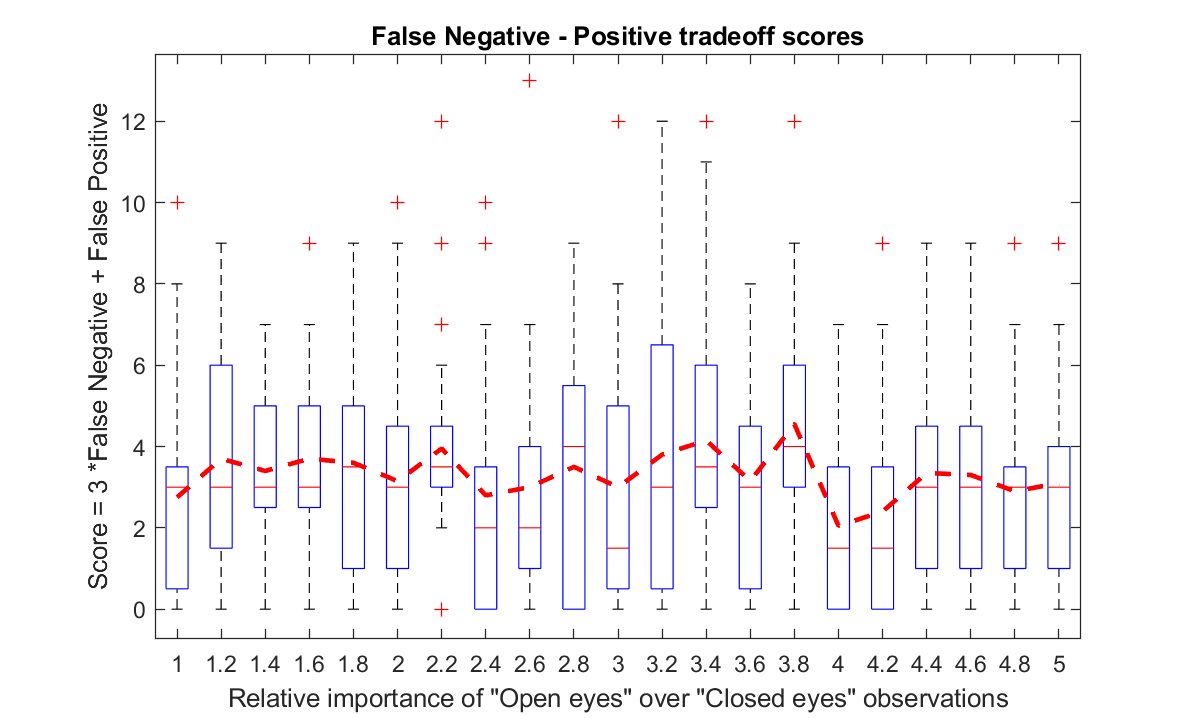
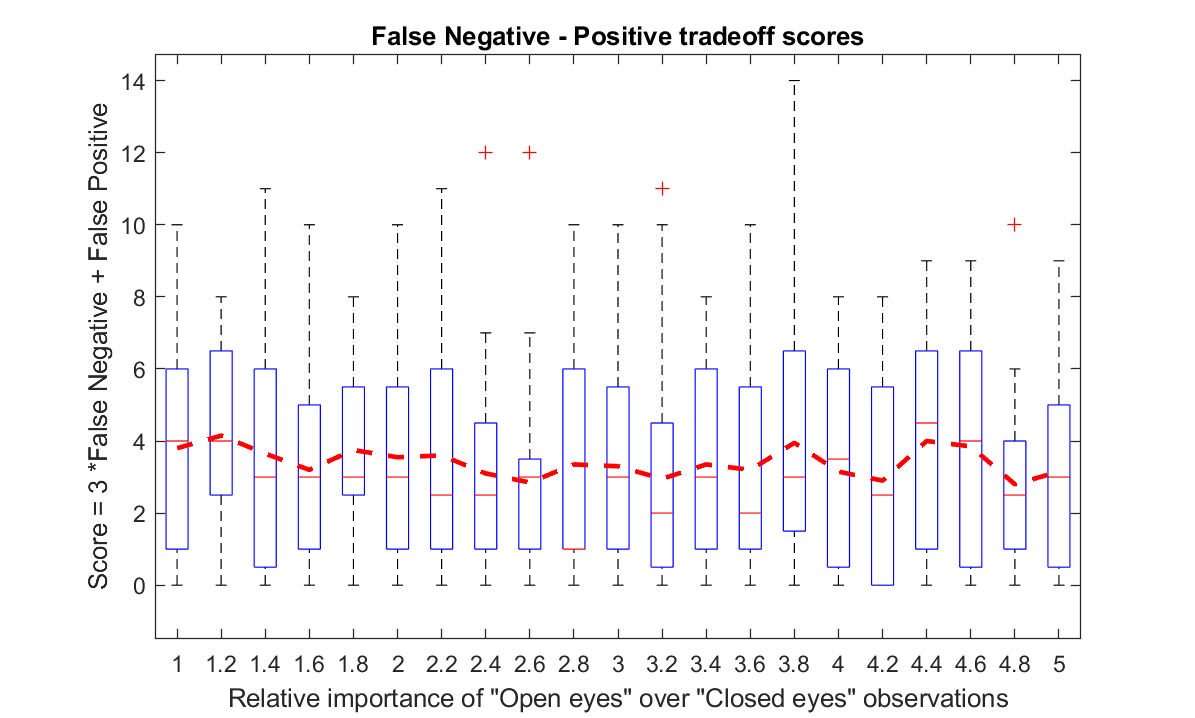
before onewave bday portfolio finalised
corrected False Positive False negative wording errors
uploaded weighted RNN training results. 
final draft check of eeg_costtradeoff.md

diff --git a/post/eeg_costtradeoff/index.html b/post/eeg_costtradeoff/index.html
@@ -74,7 +74,7 @@
 </div></div>
 		</header>
 		<figure class="post__thumbnail">
-			<img src="../../../../images/eegvis_landscapeB.png" alt="Autonomous vechicle microsleep detector Vol3: Misclassification tradeoff">
+			<img src="../../images/eegvis_landscapeB.png" alt="Autonomous vechicle microsleep detector Vol3: Misclassification tradeoff">
 		</figure><div class="content post__content clearfix">
 			<p><em>It&rsquo;s much more costly to the end user for the autonomous vehcile to not take over the steering when eyes are closed, than to take over steering when eyes are open.</em></p>
 <hr>
@@ -98,15 +98,15 @@
 </li>
 </ul>
 <h2 id="motivation--approach">Motivation &amp; approach</h2>
-<p>Understanding the context of the business application of a machine learning solution is critical. The business problem was for a driver microsleep detector, though by thinking about the context of the real world application, we decided it was much worse to classify a &ldquo;Closed&rdquo; state as an &ldquo;Open&rdquo;, than it was to classify eyes as closed, when really they were open. It&rsquo;s much more costly to the end user for the autonomous vehcile to not take over the steering when eyes are closed, than to take over steering when eyes are open. Open eyes will also be called &ldquo;Positive&rdquo;, and closed eyes will be called Negative. So we want to avoid a false positive (F.P.) 3 times as much as we want to avoid a false negative (F.N.)</p>
+<p>Understanding the context of the business application of a machine learning solution is critical. The business problem was for a driver microsleep detector, though by thinking about the context of the real world application, we decided it was much worse to classify a &ldquo;Closed&rdquo; state as an &ldquo;Open&rdquo;, than it was to classify eyes as closed, when really they were open. It&rsquo;s much more costly to the end user for the autonomous vehcile to not take over the steering when eyes are closed, than to take over steering when eyes are open. Open eyes will also be called &ldquo;Positive&rdquo;, and closed eyes will be called Negative. So we want to avoid a false negative (F.N.) 3 times as much as we want to avoid a false positive (F.P.)</p>
 <p>In the modelling done so far, the loss curves for (mis)classifying &ldquo;eyes open&rdquo; is the same as loss curve for classifying &ldquo;eyes closed&rdquo;. The False Negative to False Positive ratios for all 4 models so far;</p>
 <ol>
-<li>Probit regression: 7:6 (FPs : FNs)</li>
-<li>Lasso Probit regression: 10:10</li>
-<li>Partial Least Squares regression: 8:13</li>
-<li>Reccurent neural network (LSTM): 16:88</li>
+<li>Probit regression: 6:5 (FPs : FNs)</li>
+<li>Lasso Probit regression: 6:8</li>
+<li>Partial Least Squares regression: 9:11</li>
+<li>Reccurent neural network (LSTM): 17:20</li>
 </ol>
-<p>The goal is to get this ratio to be 3:1</p>
+<p>The goal is to get this ratio to be 1:3</p>
 <h2 id="assymetric-loss-function-trading-incorrect-open-state-detection-for-incorrect-closed-states">Assymetric Loss function: trading incorrect Open state detection for incorrect Closed states.</h2>
 <blockquote>
 <p><em><strong>Assymetric loss function</strong></em>: &ldquo;It&rsquo;s much more important to not mistake eyes closed for eyes open, than the other way around&rdquo;</p>
@@ -132,7 +132,7 @@ hold on;
 p1 = plot( carcrash_risk<span style="color:#f92672">&#39;</span>,<span style="color:#e6db74">&#39;r&#39;</span>,<span style="color:#e6db74">&#39;LineWidth&#39;</span>,<span style="color:#ae81ff">2</span>,<span style="color:#e6db74">&#39;HandleVisibility&#39;</span>,<span style="color:#e6db74">&#39;off&#39;</span>); p2 = plot( autopilot_takeover_risk<span style="color:#f92672">&#39;</span>,<span style="color:#e6db74">&#39;b&#39;</span>,<span style="color:#e6db74">&#39;LineWidth&#39;</span>,<span style="color:#ae81ff">2</span>,<span style="color:#e6db74">&#39;HandleVisibility&#39;</span>,<span style="color:#e6db74">&#39;off&#39;</span>);
 </code></pre></div><p><img src="../../images/eegcosttradeoff/1.png" alt="log loss regular"></p>
 <p>This loss shows it is equally bad to predict that eyes are closed when they are open, as it does to predict eyes open, when they are closed.</p>
-<p>Knowing the model will make some mistakes, we&rsquo;d prefer more false &ldquo;Opens&rdquo; if we can get them, even at the cost of more of false &ldquo;Closed&rdquo;. Penalising the loss curve more heavily when the true class is &ldquo;Closed&rdquo; could help to achieve this. It would be an asymmetric loss function.</p>
+<p>Knowing the model will make some mistakes, we&rsquo;d prefer more false &ldquo;Opens&rdquo; (false negatives) if we can get them, even at the cost of more of false &ldquo;Closed&rdquo;. Penalising the loss curve more heavily when the true class is &ldquo;Closed&rdquo; could help to achieve this. It would be an asymmetric loss function.</p>
 <div class="highlight"><pre style="color:#f8f8f2;background-color:#272822;-moz-tab-size:4;-o-tab-size:4;tab-size:4"><code class="language-matlab" data-lang="matlab"><span style="color:#75715e">% loss for miscalssifying Closed eyes</span>
 carcrash_risk_weighted = (Loss_closeeye<span style="color:#f92672">.^</span>(<span style="color:#ae81ff">2</span>))<span style="color:#f92672">.*</span>[ones(<span style="color:#ae81ff">1</span>,<span style="color:#ae81ff">50</span>),NaN(<span style="color:#ae81ff">1</span>,<span style="color:#ae81ff">50</span>)];
 plot( Loss_closeeye<span style="color:#f92672">.^</span>(<span style="color:#ae81ff">2</span>)<span style="color:#f92672">&#39;</span>,<span style="color:#e6db74">&#39;r.-&#39;</span>,<span style="color:#e6db74">&#39;DisplayName&#39;</span>,<span style="color:#e6db74">&#39;target class=1 (weighted)&#39;</span>,<span style="color:#e6db74">&#39;MarkerSize&#39;</span>,<span style="color:#ae81ff">10</span>); <span style="color:#75715e">%set(gca,&#39;YLim&#39;,[0 5]);%,&#39;DisplayName&#39;,&#39;target class=0 (Closed eyes), increased penalty&#39;); set(gca,&#39;YLim&#39;,[0 5]);</span>
@@ -167,7 +167,7 @@ plotPrediction( yfit_LS<span style="color:#f92672">&gt;</span>=<span style="colo
 <p>$$\begin{array}{l}\mathrm{FP}\left(p\right)=\left\lbrace \begin{array}{cc}p_x 
 -0\ldotp 5 &amp; p_x &gt;0\ldotp 5\\0 &amp; p_x \le 0\ldotp 5\end{array}\right.\\ \mathrm{FN}\left(p\right)=\left\lbrace 
 \begin{array}{cc}0 &amp; p_x &gt;0\ldotp 5\\0\ldotp 5-p_x  &amp; p_x \le 0\ldotp 5\end{array}\right.\end{array}$$</p>
-<p>Now we can add a new component to the existing (least squares) objective function, that targets the tradeoff between error costs specified by the business problem. The deisgn constraints added to the original business problem statement were that &lsquo;Closed eye&rsquo; misclassifications (FP&rsquo;s) are 3x as bad as &lsquo;Open eye&rsquo; miscalssifcations (FN&rsquo;s);</p>
+<p>Now we can add a new component to the existing (least squares) objective function, that targets the tradeoff between error costs specified by the business problem. The deisgn constraints added to the original business problem statement were that &lsquo;Closed eye&rsquo; misclassifications (FN&rsquo;s) are 3x as bad as &lsquo;Open eye&rsquo; miscalssifcations (FP&rsquo;s);</p>
 <p>$$\underset{\mathbf{w},\lambda }{\arg \min} \left(\left(1-\lambda 
 \right)\sum_{i\in \textrm{All}\ \textrm{observations}} \textrm{Cost}\left(y_i 
 ,p_i \right)+\lambda \left(\sum_{i\in \textrm{Closed}\ \textrm{eye}} 
@@ -223,7 +223,7 @@ to miscalssify. The cost function discontinuity makes the model not robust.</p>
 <ol>
 <li>Immitate a &ldquo;class imbalance&rdquo; in the dataset. i.e. adjust the intercept of PLS regression to identify different FP FN tradeoffs.</li>
 <li>Adjust the class threshold until the optimal cost is achieved.</li>
-<li>Rewrite the cost function to make it asymettrical: one that equates a FP to be 3x as costly as a FN, particularly across probabilities that would be above 0.5, or below 0.5 respretively. (see asymetric cost explanation at start of EDA)</li>
+<li>Rewrite the cost function to make it asymettrical: one that equates a FN to be 3x as costly as a FP, particularly across probabilities that would be above 0.5, or below 0.5 respretively. (see asymetric cost explanation at start of EDA)</li>
 <li>Use ensemble methods to give weight to the models which give a balance in FP FN as per the desired application.</li>
 </ol>
 <p><em>Each of the 4 models developed will have a different technique applied, for illustrative purposes.</em></p>
@@ -259,15 +259,16 @@ yfit_weightedLasso = yfitLasso(:,mnI);
 <span style="color:#75715e">% Plot prediction as time-series, and Confusion Matrix</span>
 [ <span style="color:#f92672">~</span> ] = plotPrediction( yfit_weightedLasso<span style="color:#f92672">&gt;</span>=<span style="color:#ae81ff">0.5</span> , ybin, yfit_weightedLasso , y_weighted , steplength_seconds ,<span style="color:#e6db74">&#39;confusion&#39;</span>);
 </code></pre></div><p><img src="../../images/eegcosttradeoff/6.png" alt="confusion intercept Lasso"></p>
-<p>Across all the adjustments to the lasso model&rsquo;s intercept term, the minimum FN-FP tradeoff-weighted score occurs with intercept 1.5% higher than the balanced-cost case. This gives 6 times the false positives than false negatives.</p>
+<p>Across all the adjustments to the lasso model&rsquo;s intercept term, the minimum FN-FP tradeoff-weighted score occurs with intercept 1.5% lower than the balanced-cost case. This gives 17 times the false positives than false negatives.</p>
 <h1 id="adjust-observation-weights---probit-model">Adjust observation weights - Probit model</h1>
-<p>Weighting observations is usually reserved for differences in the fidelity of measurement of those observations. However in essence it&rsquo;s adjusting the &lsquo;importance&rsquo; of the observation in the overall purpose of the model. Each prediction residual in the &ldquo;Open&rdquo; class will count as an additional &lsquo;w&rsquo; data points, in the maximum likelihood parameter search.</p>
+<p>Weighting observations is usually reserved for differences in the fidelity of measurement of those observations. However in essence it&rsquo;s adjusting the &lsquo;importance&rsquo; of the observation in the overall purpose of the model. Each prediction residual in the true &ldquo;Closed&rdquo; class will count as an additional &lsquo;w&rsquo; data points, in the maximum likelihood parameter search.</p>
 <p>Unlike the lasso model, no action was taken to hedge against poor generalisation performance, in a similar way the lasso model is prone to overfitting when searching for the best parameter, so is the probit mdoel when searching for the best observation weighting. Cross validated scores are taken for the FN-FP tradeoff;</p>
 <div class="highlight"><pre style="color:#f8f8f2;background-color:#272822;-moz-tab-size:4;-o-tab-size:4;tab-size:4"><code class="language-matlab" data-lang="matlab"><span style="color:#75715e">% create indices that separate data into 10 train and test sets</span>
 Xval = cvpartition(ybin,<span style="color:#e6db74">&#39;KFold&#39;</span>, <span style="color:#ae81ff">20</span> );
 [confMatXval_probit , weightedCost_probit] = deal( [] );
 <span style="color:#75715e">% weighting factor for each observation in data</span>
 wi = ones(size(ybin));
+
 <span style="color:#75715e">% iterate over differing observation weights, either side of the true FN = 3*FP;</span>
 FPFNtradeoff = linspace(<span style="color:#ae81ff">1</span>,<span style="color:#ae81ff">5</span>,<span style="color:#ae81ff">21</span>);
 yfit_probit = NaN( size(y_weighted,<span style="color:#ae81ff">1</span>),numel(FPFNtradeoff) );
@@ -275,16 +276,20 @@ yfit_probit = NaN( size(y_weighted,<span style="color:#ae81ff">1</span>),numel(F
     wi(ybin<span style="color:#f92672">==</span><span style="color:#ae81ff">1</span>) = FPFNtradeoff(ci);
     mdl_probit = fitglm( x_train ,y_weighted,<span style="color:#e6db74">&#39;Distribution&#39;</span>,<span style="color:#e6db74">&#39;binomial&#39;</span>,<span style="color:#e6db74">&#39;link&#39;</span>,<span style="color:#e6db74">&#39;probit&#39;</span>,<span style="color:#e6db74">&#39;Weights&#39;</span>, wi );
     mdl_probit = remlargePv3(mdl_probit,<span style="color:#e6db74">&#39;&#39;</span>,<span style="color:#ae81ff">0.01</span>);
+    
     <span style="color:#75715e">% evaluate model over each cross validation set</span>
     <span style="color:#66d9ef">for</span> k = <span style="color:#ae81ff">1</span>:Xval.NumTestSets
         mdlXval = fitglm(mdl_probit.Variables(training(Xval,k),:), mdl_probit.Formula,<span style="color:#e6db74">&#39;Distribution&#39;</span>,<span style="color:#e6db74">&#39;binomial&#39;</span>,<span style="color:#e6db74">&#39;link&#39;</span>,<span style="color:#e6db74">&#39;probit&#39;</span>,<span style="color:#e6db74">&#39;Weights&#39;</span>,wi(training(Xval,k)));
         yhatXval = predict(mdlXval , x_train(test(Xval,k),:) );
         y_hatXvalBinom = yhatXval<span style="color:#f92672">&gt;</span>=<span style="color:#ae81ff">0.5</span>;
         confMatXval_probit(:,:,ci,k) = confusionmat( categorical(ybin(test(Xval,k),:)) , categorical(y_hatXvalBinom) );
-        weightedCost_probit(k,ci) = (<span style="color:#ae81ff">3</span>)<span style="color:#f92672">*</span>confMatXval_probit(<span style="color:#ae81ff">1</span>,<span style="color:#ae81ff">2</span>,ci,k) <span style="color:#f92672">+</span> confMatXval_probit(<span style="color:#ae81ff">2</span>,<span style="color:#ae81ff">1</span>,ci,k);
+        weightedCost_probit(k,ci) = (<span style="color:#ae81ff">1</span>)<span style="color:#f92672">*</span>confMatXval_probit(<span style="color:#ae81ff">1</span>,<span style="color:#ae81ff">2</span>,ci,k) <span style="color:#f92672">+</span> (<span style="color:#ae81ff">3</span>)<span style="color:#f92672">*</span>confMatXval_probit(<span style="color:#ae81ff">2</span>,<span style="color:#ae81ff">1</span>,ci,k);
     <span style="color:#66d9ef">end</span>
+    
     yfit_probit(:,ci) = mdl_probit.Fitted.Response;
+    
 <span style="color:#66d9ef">end</span>
+
 <span style="color:#75715e">% Inspect cross validated mean scores of error tradeoff costs</span>
 figure(<span style="color:#e6db74">&#39;Position&#39;</span>,[<span style="color:#ae81ff">612</span>   <span style="color:#ae81ff">358</span>   <span style="color:#ae81ff">945</span>   <span style="color:#ae81ff">568</span>]); 
 boxplot(weightedCost_probit);<span style="color:#75715e">%,&#39;PlotStyle&#39;,&#39;compact&#39;)</span>
@@ -307,31 +312,37 @@ yfit_weightedProbit = yfit_probit(:,mnI);
 <div class="highlight"><pre style="color:#f8f8f2;background-color:#272822;-moz-tab-size:4;-o-tab-size:4;tab-size:4"><code class="language-matlab" data-lang="matlab"><span style="color:#75715e">%% Fit a PLS model, then find optimal FP-FN tradeoff using Threshold Search</span>
 FPFNtradeoff = linspace(<span style="color:#ae81ff">0.5</span>,<span style="color:#ae81ff">1.5</span>,<span style="color:#ae81ff">50</span>);
 thresh = FPFNtradeoff<span style="color:#f92672">.*</span><span style="color:#ae81ff">0.5</span>;
+
 confMat = NaN( <span style="color:#ae81ff">2</span> ); 
 weightedCost_PLS = deal( NaN( Xval.NumTestSets , numel(FPFNtradeoff) ) );
+
 <span style="color:#75715e">% fit PLS model using previous settings</span>
 [Xloadings,Yloadings,Xscores,Yscores,betaPLS,<span style="color:#f92672">~</span>] = plsregress( xLogNorm_train , y_weighted , ncomp );
-yfitPLS = [ones(win_trainN,<span style="color:#ae81ff">1</span>)<span style="color:#f92672">*</span>betaPLS(<span style="color:#ae81ff">1</span>) <span style="color:#f92672">+</span> xLogNorm_train<span style="color:#f92672">*</span>betaPLS(<span style="color:#ae81ff">2</span>:<span style="color:#66d9ef">end</span>)];
+yfitPLS = [ones(N_corrwin,<span style="color:#ae81ff">1</span>)<span style="color:#f92672">*</span>betaPLS(<span style="color:#ae81ff">1</span>) <span style="color:#f92672">+</span> xLogNorm_train<span style="color:#f92672">*</span>betaPLS(<span style="color:#ae81ff">2</span>:<span style="color:#66d9ef">end</span>)];
+
 <span style="color:#75715e">% Loop over a range of adjustments to the base 50% classification threshold</span>
 <span style="color:#66d9ef">for</span> ci=<span style="color:#ae81ff">1</span>:numel(FPFNtradeoff)    
         
     <span style="color:#75715e">% evaluate model over each cross validation set</span>
     <span style="color:#66d9ef">for</span> k = <span style="color:#ae81ff">1</span>:Xval.NumTestSets
           confMat = confusionmat( categorical( y_weighted(test(Xval,k))<span style="color:#f92672">&gt;</span>= thresh(:,ci)  ) , categorical(yfitPLS((test(Xval,k)))<span style="color:#f92672">&gt;</span>= thresh(:,ci)) );
-          weightedCost_PLS(k,ci) = (<span style="color:#ae81ff">3</span>)<span style="color:#f92672">*</span>confMat(<span style="color:#ae81ff">1</span>,<span style="color:#ae81ff">2</span>) <span style="color:#f92672">+</span> confMat(<span style="color:#ae81ff">2</span>,<span style="color:#ae81ff">1</span>);
+          weightedCost_PLS(k,ci) = (<span style="color:#ae81ff">1</span>)<span style="color:#f92672">*</span>confMat(<span style="color:#ae81ff">1</span>,<span style="color:#ae81ff">2</span>) <span style="color:#f92672">+</span> (<span style="color:#ae81ff">3</span>)<span style="color:#f92672">*</span>confMat(<span style="color:#ae81ff">2</span>,<span style="color:#ae81ff">1</span>);
     <span style="color:#66d9ef">end</span>
 <span style="color:#66d9ef">end</span>
+
 [<span style="color:#f92672">~</span>,mnI] = min( mean(weightedCost_PLS,<span style="color:#ae81ff">1</span>) );
+
 <span style="color:#75715e">% Inspect cross validated mean scores of error tradeoff costs</span>
 figure(<span style="color:#e6db74">&#39;Position&#39;</span>,[<span style="color:#ae81ff">612</span>   <span style="color:#ae81ff">358</span>   <span style="color:#ae81ff">945</span>   <span style="color:#ae81ff">568</span>]); 
 boxplot(weightedCost_PLS);<span style="color:#75715e">%,&#39;PlotStyle&#39;,&#39;compact&#39;)</span>
  hold on;  plot( <span style="color:#ae81ff">1</span>:numel(thresh),mean(weightedCost_PLS,<span style="color:#ae81ff">1</span>),<span style="color:#e6db74">&#39;r--&#39;</span>,<span style="color:#e6db74">&#39;LineWidth&#39;</span>,<span style="color:#ae81ff">2</span>);
  plot( (mnI) , mean(weightedCost_PLS(:,mnI),<span style="color:#ae81ff">1</span>) , <span style="color:#e6db74">&#39;r*&#39;</span>,<span style="color:#e6db74">&#39;LineWidth&#39;</span>,<span style="color:#ae81ff">10</span>);
 set(gca,{<span style="color:#e6db74">&#39;XTick&#39;</span>,<span style="color:#e6db74">&#39;XTickLabel&#39;</span>},{floor(linspace(<span style="color:#ae81ff">1</span>,ci,<span style="color:#ae81ff">8</span>)),[strcat(string(<span style="color:#ae81ff">100.</span><span style="color:#f92672">*</span>round(thresh(floor(linspace(<span style="color:#ae81ff">1</span>,ci,<span style="color:#ae81ff">8</span>))),<span style="color:#ae81ff">1</span>)),<span style="color:#e6db74">&#39;%&#39;</span>)] } );
+
 title({<span style="color:#e6db74">&#39;False Negative - Positive tradeoff scores&#39;</span>,[<span style="color:#e6db74">&#39;Min (weighted) cost when Positive classification threshold above &#39;</span>,num2str(round(<span style="color:#ae81ff">100</span><span style="color:#f92672">*</span>thresh(mnI) ,<span style="color:#ae81ff">1</span>)),<span style="color:#e6db74">&#39;%&#39;</span>]})
 ylabel(<span style="color:#e6db74">&#39;Score = 3 *False Negative + False Positive&#39;</span>); xlabel(<span style="color:#e6db74">&#39;Open Eyes classification threshold&#39;</span>)
 </code></pre></div><p><img src="../../images/eegcosttradeoff/9.png" alt="FN FP tradeoff PLS classification threshold"></p>
-<p>Classifying an eye state as Open when its probability is less than 58.7% gives the overall lowest cost of incorrect predictions when FPs are 3 times the importance of FNs.</p>
+<p>Classifying an eye state as Closed when its probability is greater than 46.4% gives the overall lowest cost of incorrect predictions when FPs are 3 times the importance of FNs.</p>
 <div class="highlight"><pre style="color:#f8f8f2;background-color:#272822;-moz-tab-size:4;-o-tab-size:4;tab-size:4"><code class="language-matlab" data-lang="matlab"><span style="color:#75715e">% Plot prediction as time-series, and Confusion Matrix</span>
 weightedThreshold = thresh(:,mnI);
 [ fh1, <span style="color:#f92672">~</span> ] = plotPrediction( yfitPLS<span style="color:#f92672">&gt;</span>=weightedThreshold , ybin, yfitPLS , y_weighted , steplength_seconds );
@@ -340,12 +351,12 @@ plot( <span style="color:#ae81ff">1</span>:win_trainN , ones(<span style="color:
 hold on; plot( <span style="color:#ae81ff">1</span>:win_trainN , ones(<span style="color:#ae81ff">1</span>,win_trainN)<span style="color:#f92672">*</span>thresh(:,mnI),<span style="color:#e6db74">&#39;r--&#39;</span> ,<span style="color:#e6db74">&#39;LineWidth&#39;</span>,<span style="color:#ae81ff">2</span>,<span style="color:#e6db74">&#39;DisplayName&#39;</span>,<span style="color:#e6db74">&#39;Cost Optimised Positive class threshold&#39;</span>)
 </code></pre></div><p><img src="../../images/eegcosttradeoff/10.png" alt="FN FP tradeoff prediction PLS">
 <img src="../../images/eegcosttradeoff/11.png" alt="FN FP tradeoff confusion PLS"></p>
-<p>The red line is the prediction threshold for Closed eyes, across the entire 117 second interval. The shifted threshold removed most of the open-eyes miscalssifications, but now many more closed states are predicted incorrectly.</p>
+<p>The red line is the prediction threshold for Closed eyes, across the entire 117 second interval. The shifted threshold removed some of the closed-eyes miscalssifications, but now many more open states are predicted incorrectly.</p>
 <h2 id="custom-loss-function---recurrent-neural-network-lstm">Custom Loss function - Recurrent Neural Network (LSTM)</h2>
 <p>For the least squares regression, re-writing the objective function to include a term that penalises only misclassifications forced many of the predictions to lie just outside the classification boundary (≥ or &lt; 50%). That  model wouldn&rsquo;t be robust to out-of-sample data.</p>
 <p>The alternative is to make an objective function that is similar, but continuous &amp; smooth at every point.</p>
-<p>The Neural network algorithm I&rsquo;ve designed allows customising all parts of training and inference. Any customised loss function can be implemented, but it is the derivative of loss function that guides the training. Instead of the regular binary cross entropy loss, an adjustment is made for when the target class is &ldquo;Open eyes&rdquo;.</p>
-<p>The new cost gradient needs to have a value of 0 when prediction is perfect for both classes, but must grow faster with a closed eyes classification (i.e. an open eyes misclassification)</p>
+<p>The Neural network algorithm I&rsquo;ve designed allows customising all parts of training and inference. Any customised loss function can be implemented, but it is the derivative of loss function that guides the training. Instead of the regular binary cross entropy loss, an adjustment is made for when the target class is &ldquo;Closed eyes&rdquo;.</p>
+<p>The new cost gradient needs to have a value of 0 when prediction is perfect for both classes, but must grow faster when classifying a closed class</p>
 <div class="highlight"><pre style="color:#f8f8f2;background-color:#272822;-moz-tab-size:4;-o-tab-size:4;tab-size:4"><code class="language-matlab" data-lang="matlab"><span style="color:#75715e">% Regular binary cross entropy loss</span>
 Loss_delta = @(Pred,Real) (<span style="color:#f92672">-</span>Real<span style="color:#f92672">./</span>Pred) <span style="color:#f92672">+</span> ( (<span style="color:#ae81ff">1</span><span style="color:#f92672">-</span>Real)<span style="color:#f92672">./</span>(<span style="color:#ae81ff">1</span><span style="color:#f92672">-</span>Pred) );
 <span style="color:#75715e">% Middle-range weighted on the negative class</span>
@@ -418,28 +429,30 @@ trainingSettings.LossType = &#34;WeightedTwoClassCrossEntropy&#34;;
 </code></pre></div><!-- raw HTML omitted -->
 <!-- raw HTML omitted -->
 <p><img src="../../images/eegcosttradeoff/13.png" alt="eye state transition error LSTM"></p>
-<p>On average, the prediction has error centered around eye state transitions. The network placed lower loss on observations trailing from a &lsquo;closing eye&rsquo; transition, so hasn&rsquo;t learnt the transition pattern as well, due to the asymmetric loss function.</p>
+<p>On average, the prediction has error centered around eye state transitions. The network attained lower loss on observations trailing from a &lsquo;closing eye&rsquo; transition, so hasn&rsquo;t learnt the transition pattern as well, due to the asymmetric loss function.</p>
 <div class="highlight"><pre style="color:#f8f8f2;background-color:#272822;-moz-tab-size:4;-o-tab-size:4;tab-size:4"><code class="language-matlab" data-lang="matlab">    <span style="color:#75715e">% Plot prediction as a Confusion Matrix</span>
     [ fh1 , fh2 ] = plotPrediction( round(yfitRNNLSTM) , TargetSeq, yfitRNNLSTM , TargetSeq , <span style="color:#ae81ff">117</span><span style="color:#f92672">/</span>(N) <span style="color:#f92672">*</span>seqlen_out<span style="color:#f92672">*</span>dsr ,<span style="color:#e6db74">&#39;confusion&#39;</span> );
 </code></pre></div><p><img src="../../images/eegcosttradeoff/14.png" alt="tradeoff LSTM confusion"></p>
-<p>The results are as expected - More misclassifications when targe state is &ldquo;0 / Open&rdquo;, than when the target state is Closed. The neural network focused on eye closing transition patterns more, and it resulted in more false positives at the cost of false negatives.</p>
+<p>The results are as expected - More misclassifications when targe state is &ldquo;0 / Open&rdquo;, than when the target state is Closed. The neural network focused on eye closing transition patterns more, and it resulted in more false positives, but less false negatives.</p>
 <h2 id="summary">Summary</h2>
 <p>Across the 4 methods for altering the cost balance of classes, each is more or less appropriate depending on the situation &amp; type of model.</p>
 <p>In the training process, EEG correlations were windowed with length 256 and step length of 26, giving a total of 576 samples. In the final comparison the step length was set to 1, to give 14724 observations (14980-256). The RNN was downsampled with a sliding &amp; overlapping average in the training process with downsampling ratio of 3, for comparison it was upsampled which lost fidelity, but brought number of observations to the full 14980.</p>
 <div class="highlight"><pre style="color:#f8f8f2;background-color:#272822;-moz-tab-size:4;-o-tab-size:4;tab-size:4"><code class="language-matlab" data-lang="matlab">EEGCloseEyes_CompreModels(&#34;CompareTradeoffModels&#34;)
-</code></pre></div><p><img src="../../images/eegcosttradeoff/15b.png" alt="LSTM netork comparisions"></p>
-<p>There is a definite effect in the ratio of false negatives to positives across all approaches. Though, it has come at the cost of unweighted accuracy overall, or length of consequtive time the prediction is incorrect.</p>
+</code></pre></div><p><img src="../../images/eegcosttradeoff/15.png" alt="LSTM netork comparisions"></p>
+<p>There is a definite effect in the ratio of false negatives to positives across all approaches. Though, it has come at the cost of unweighted accuracy overall, or the length of consequtive time the prediction is incorrect.</p>
 <pre><code>                FN_FPratio    Accuracy
                 __________    ________
-    Probit       &quot;  1.6&quot;        95.7  
-    Probit_W     &quot; 0.56&quot;        94.5  
-    Lasso        &quot; 2.49&quot;        95.8  
-    Lasso_W      &quot; 5.14&quot;          95  
-    PLS          &quot; 2.54&quot;        95.4  
-    PLS_W        &quot;19.02&quot;        93.9  
-    LSTM         &quot;146.5&quot;        90.2  
-    LSTM_W       &quot; 0.38&quot;        95.2  
-</code></pre>
+    Probit        &quot;   1&quot;        96.7  
+    Probit_W      &quot;1.17&quot;        97.4  
+    Lasso         &quot;1.68&quot;        96.8  
+    Lasso_W       &quot;0.24&quot;        95.9  
+    PLS           &quot;1.79&quot;        96.4  
+    PLS_W         &quot;0.61&quot;        96.9  
+    LSTM          &quot;0.77&quot;        98.6  
+    LSTM_W        &quot;0.85&quot;        96.3  
+</code></pre><p>These measures of accuracy &amp; balance of False negatics &amp; positives are different than from the training measurements. The data here is higher resolution than training, and gives a better idea of what generalisation perfromance might be. The most striking difference is the LSTM which in it&rsquo;s weighted form, has an even balance between FNs and FPs (253:297), instead of in training where it was 152:35.</p>
+<p>Without a validation dataset containing many more subjects EEG readings, a metric of the true effectiveness of the real-world machine leanring application can&rsquo;t be fully known. That said, the model with best accuracy in both the wighted and unweighted cases is the LSTM. In terms of user expereince, it&rsquo;s the Partial Least Squares regression model which has the shortest consecutive misclassifications. The PLS model would result in the least &lsquo;flickering&rsquo; on and off of the autopilot system.</p>
+<hr>
 		</div>
 		<footer class="post__footer">
 			

diff --git a/categories/datascience/index.html b/categories/datascience/index.html
@@ -67,7 +67,7 @@
 	</header><article class="list__item post">
 	<figure class="list__thumbnail">
 		<a href="../../post/eeg_costtradeoff/">
-			<img src="../../../../images/eegvis_landscapeB.png" alt="Autonomous vechicle microsleep detector Vol3: Misclassification tradeoff" />
+			<img src="../../images/eegvis_landscapeB.png" alt="Autonomous vechicle microsleep detector Vol3: Misclassification tradeoff" />
 		</a>
 	</figure>
 	<header class="list__header">
@@ -111,7 +111,7 @@
 </article><article class="list__item post">
 	<figure class="list__thumbnail">
 		<a href="../../post/eeg_eda/">
-			<img src="../../images/eegvis_landscapeB.png/" alt="Autonomous vechicle microsleep detector Vol1: EDA" />
+			<img src="../../images/eegvis_landscapeB.png" alt="Autonomous vechicle microsleep detector Vol1: EDA" />
 		</a>
 	</figure>
 	<header class="list__header">

diff --git a/categories/machine-learning/index.html b/categories/machine-learning/index.html
@@ -89,7 +89,7 @@
 </article><article class="list__item post">
 	<figure class="list__thumbnail">
 		<a href="../../post/eeg_costtradeoff/">
-			<img src="../../../../images/eegvis_landscapeB.png" alt="Autonomous vechicle microsleep detector Vol3: Misclassification tradeoff" />
+			<img src="../../images/eegvis_landscapeB.png" alt="Autonomous vechicle microsleep detector Vol3: Misclassification tradeoff" />
 		</a>
 	</figure>
 	<header class="list__header">
@@ -133,7 +133,7 @@
 </article><article class="list__item post">
 	<figure class="list__thumbnail">
 		<a href="../../post/eeg_eda/">
-			<img src="../../images/eegvis_landscapeB.png/" alt="Autonomous vechicle microsleep detector Vol1: EDA" />
+			<img src="../../images/eegvis_landscapeB.png" alt="Autonomous vechicle microsleep detector Vol1: EDA" />
 		</a>
 	</figure>
 	<header class="list__header">

diff --git a/post/index.html b/post/index.html
@@ -89,7 +89,7 @@
 </article><article class="list__item post">
 	<figure class="list__thumbnail">
 		<a href="../post/eeg_costtradeoff/">
-			<img src="../../../images/eegvis_landscapeB.png" alt="Autonomous vechicle microsleep detector Vol3: Misclassification tradeoff" />
+			<img src="../images/eegvis_landscapeB.png" alt="Autonomous vechicle microsleep detector Vol3: Misclassification tradeoff" />
 		</a>
 	</figure>
 	<header class="list__header">
@@ -133,7 +133,7 @@
 </article><article class="list__item post">
 	<figure class="list__thumbnail">
 		<a href="../post/eeg_eda/">
-			<img src="../images/eegvis_landscapeB.png/" alt="Autonomous vechicle microsleep detector Vol1: EDA" />
+			<img src="../images/eegvis_landscapeB.png" alt="Autonomous vechicle microsleep detector Vol1: EDA" />
 		</a>
 	</figure>
 	<header class="list__header">

diff --git a/post/eeg_eda/index.html b/post/eeg_eda/index.html
@@ -74,7 +74,7 @@
 </div></div>
 		</header>
 		<figure class="post__thumbnail">
-			<img src="../../images/eegvis_landscapeB.png/" alt="Autonomous vechicle microsleep detector Vol1: EDA">
+			<img src="../../images/eegvis_landscapeB.png" alt="Autonomous vechicle microsleep detector Vol1: EDA">
 		</figure><div class="content post__content clearfix">
 			<p><em>Produce a detector that distinguisihes when a car&rsquo;s driver has eyes closed. This detector will connect to an autopilot system for the car temporarily until driver regains control, otherwise safely brings the car to a halt on the side of the road. Detector will have access to EEG signals connected to drivers head.</em></p>
 <hr>

diff --git a/tags/classification/index.html b/tags/classification/index.html
@@ -67,7 +67,7 @@
 	</header><article class="list__item post">
 	<figure class="list__thumbnail">
 		<a href="../../post/eeg_costtradeoff/">
-			<img src="../../../../images/eegvis_landscapeB.png" alt="Autonomous vechicle microsleep detector Vol3: Misclassification tradeoff" />
+			<img src="../../images/eegvis_landscapeB.png" alt="Autonomous vechicle microsleep detector Vol3: Misclassification tradeoff" />
 		</a>
 	</figure>
 	<header class="list__header">

diff --git a/tags/convex-optimisation/index.html b/tags/convex-optimisation/index.html
@@ -67,7 +67,7 @@
 	</header><article class="list__item post">
 	<figure class="list__thumbnail">
 		<a href="../../post/eeg_costtradeoff/">
-			<img src="../../../../images/eegvis_landscapeB.png" alt="Autonomous vechicle microsleep detector Vol3: Misclassification tradeoff" />
+			<img src="../../images/eegvis_landscapeB.png" alt="Autonomous vechicle microsleep detector Vol3: Misclassification tradeoff" />
 		</a>
 	</figure>
 	<header class="list__header">

diff --git a/tags/data-visualisation/index.html b/tags/data-visualisation/index.html
@@ -67,7 +67,7 @@
 	</header><article class="list__item post">
 	<figure class="list__thumbnail">
 		<a href="../../post/eeg_eda/">
-			<img src="../../images/eegvis_landscapeB.png/" alt="Autonomous vechicle microsleep detector Vol1: EDA" />
+			<img src="../../images/eegvis_landscapeB.png" alt="Autonomous vechicle microsleep detector Vol1: EDA" />
 		</a>
 	</figure>
 	<header class="list__header">

diff --git a/tags/exploratory-data-analysis/index.html b/tags/exploratory-data-analysis/index.html
@@ -89,7 +89,7 @@
 </article><article class="list__item post">
 	<figure class="list__thumbnail">
 		<a href="../../post/eeg_eda/">
-			<img src="../../images/eegvis_landscapeB.png/" alt="Autonomous vechicle microsleep detector Vol1: EDA" />
+			<img src="../../images/eegvis_landscapeB.png" alt="Autonomous vechicle microsleep detector Vol1: EDA" />
 		</a>
 	</figure>
 	<header class="list__header">
